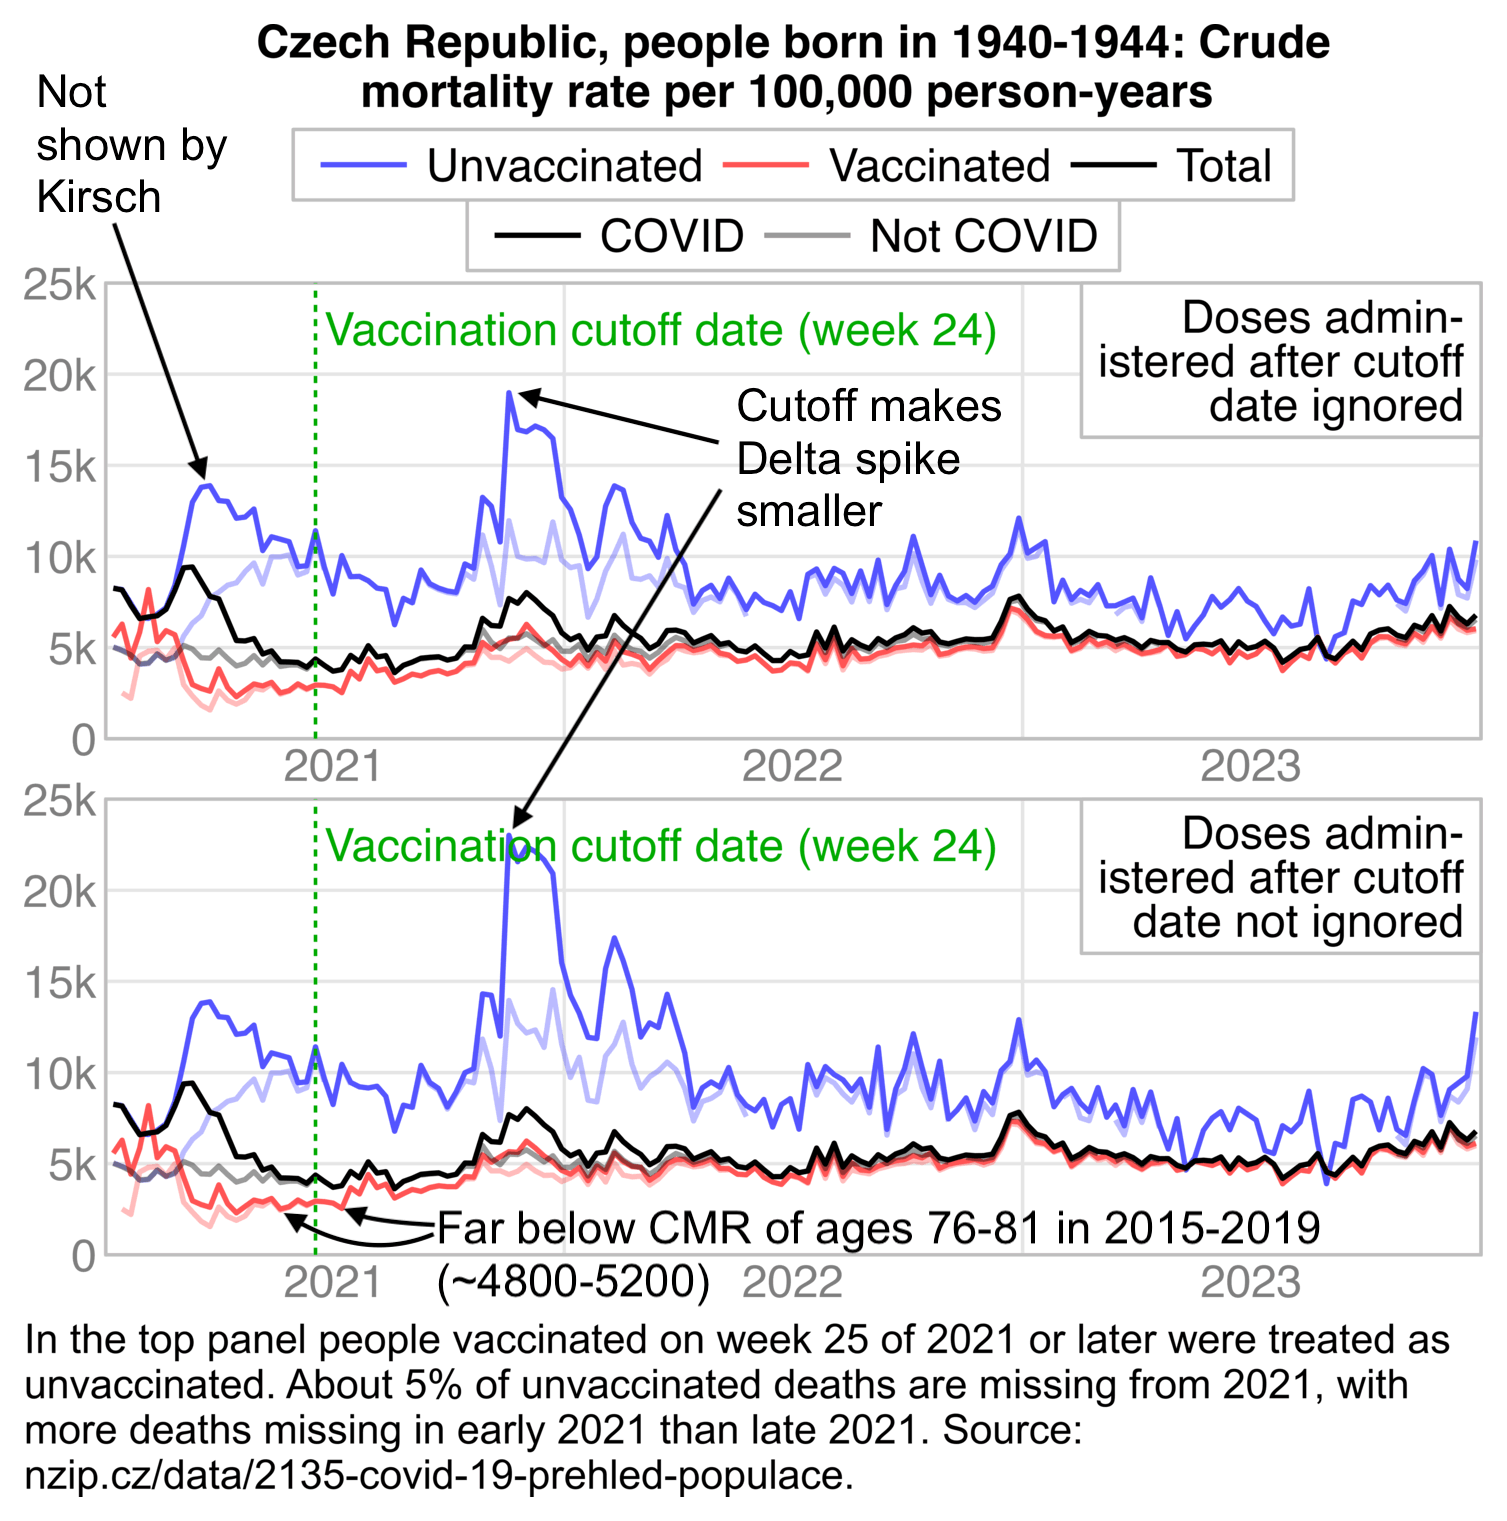
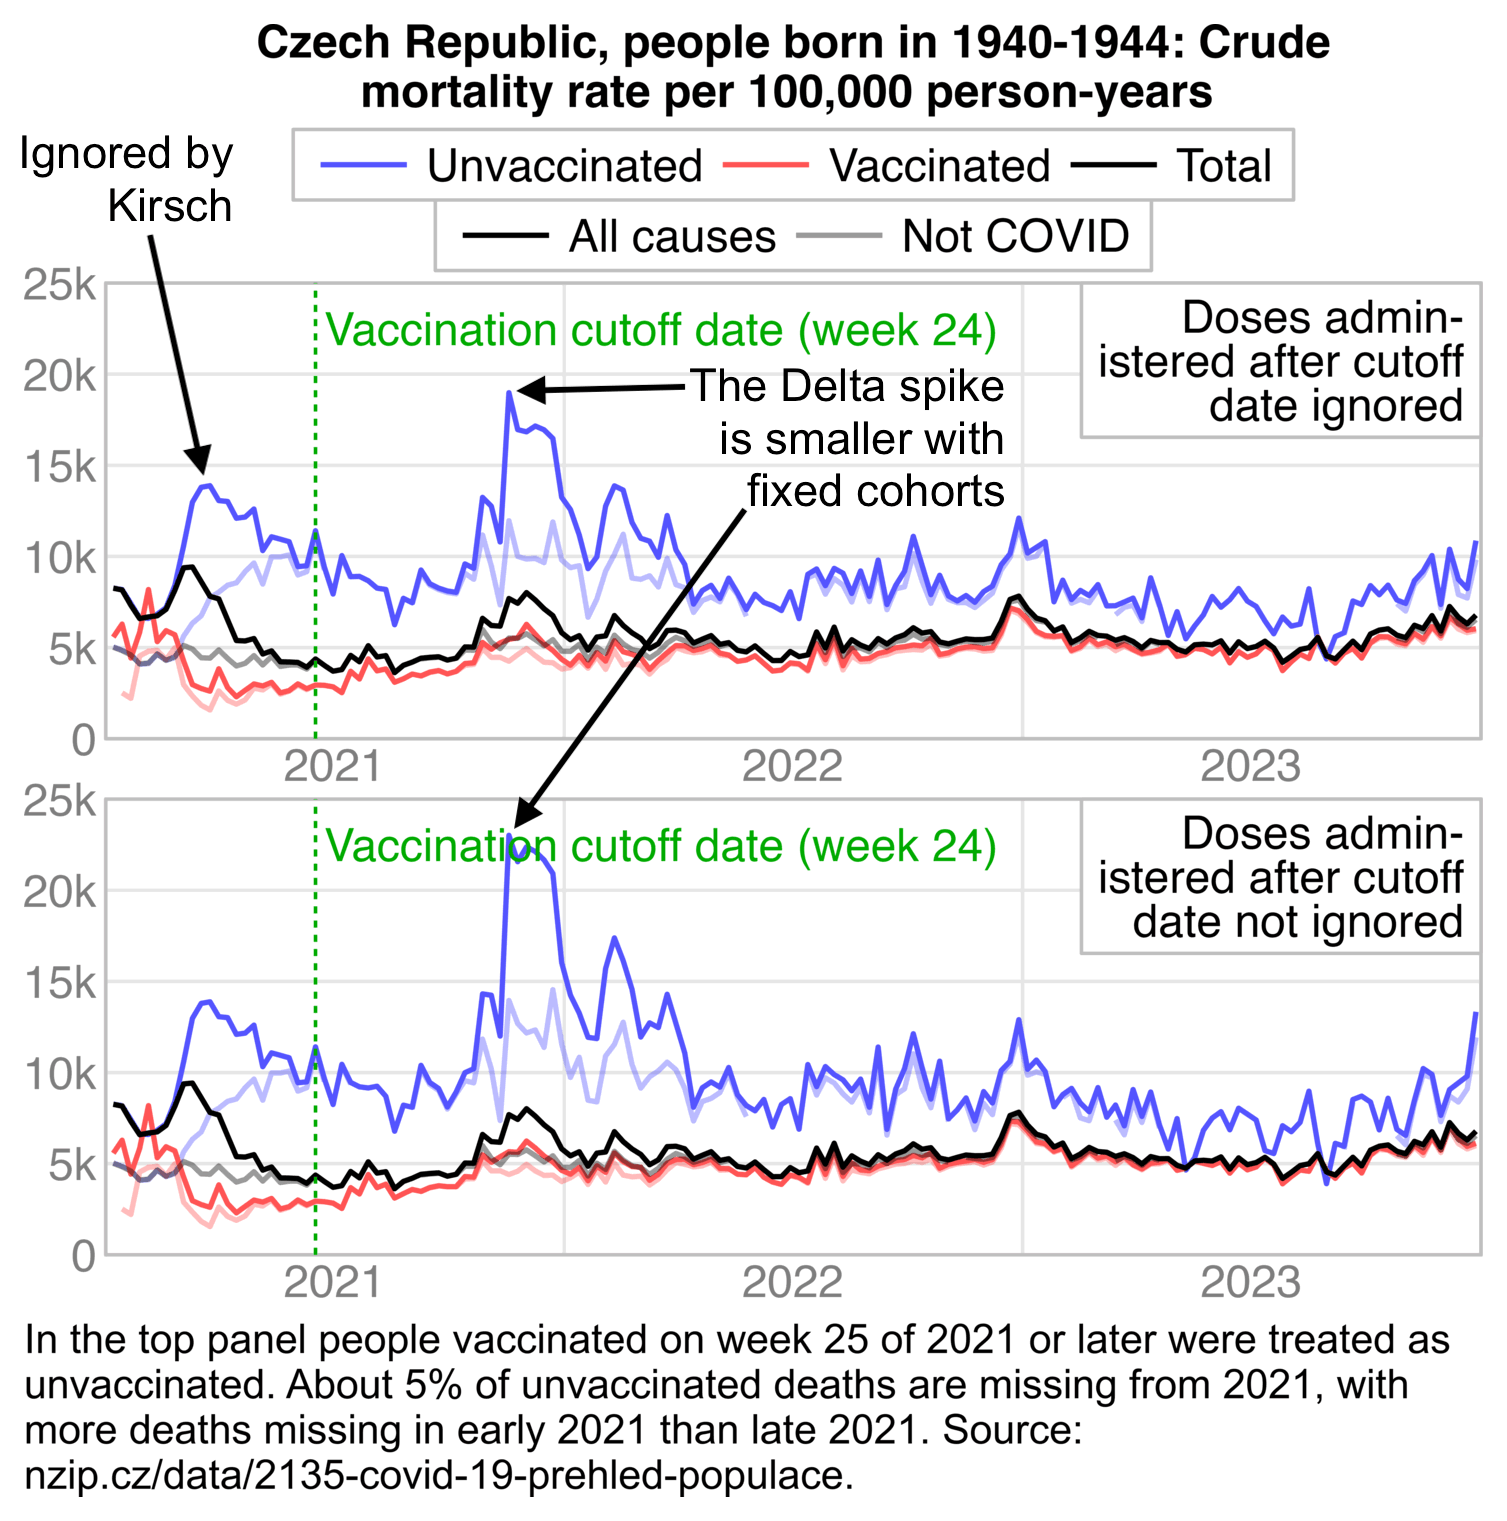
a

diff --git a/rootclaim5.html b/rootclaim5.html
@@ -2654,7 +2654,7 @@ ggsave(&quot;1.png&quot;,width=4.9,height=2.6,dpi=300*4)</pre>
 </div>
 <p>When he said the unvaccinated CMR remained flat, he was talking about the CMR at the start of his x-axis before the Delta wave.</p>
 <p>The Czech Republic had a high percentage of unvaccinated people compared to other countries like England or Japan, so unvaccinated people didn't have a very large spike in mortality during the rollout of the primary course doses.</p>
-<p>But that doesn't mean that the increase in vaccinated mortality in 2021 wouldn't have been due to the HVE. The vaccinated CMR in 2021 was about 3000 in mid-2021. People born in 1940-1944 were 76 to 81 years old in 2021, but the Czech CMR for ages 76-81 was about 4800-5200 per 100,000 in 2015-2019:</p>
+<p>But that doesn't mean that the increase in vaccinated mortality in 2021 wouldn't have been due to the HVE. The vaccinated CMR was about 3,000 per 100,000 in mid-2021. People born in 1940-1944 were 76 to 81 years old in 2021, but the Czech CMR for ages 76-81 was about 5,000 per 100,000 in 2015-2019:</p>
 <pre>t=fread(&quot;https://sars2.net/f/czpopdead.csv&quot;)
 t[age%in%76:81&amp;year%in%2015:2022,.(cmr=sum(dead)/sum(pop)*1e5),year]
 # year      cmr
@@ -2702,7 +2702,7 @@ a=rbind(a,a[,.(dead=sum(dead),pop=sum(pop,na.rm=T),coviddead=sum(coviddead),dose
 iso=`class&lt;-`(0:1e4*7,&quot;Date&quot;);names(iso)=format(iso,&quot;%G-%V&quot;)
 p=a[,.(y=(sum(dead)-c(0,sum(coviddead)))/sum(pop)/7*365e5,z=1:2),.(dose,x=iso[week],facet)]
 p[,dose:=factor(dose,,c(&quot;Unvaccinated&quot;,&quot;Vaccinated&quot;,&quot;Total&quot;))]
-p[,z:=factor(z,,c(&quot;COVID&quot;,&quot;Not COVID&quot;))]
+p[,z:=factor(z,,c(&quot;All causes&quot;,&quot;Not COVID&quot;))]
 p[,facet:=factor(facet,,paste(&quot;Doses admin-\nistered after cutoff\ndate&quot;,c(&quot;ignored&quot;,&quot;not ignored&quot;)))]
 
 xstart=as.Date(&quot;2021-1-1&quot;);xend=as.Date(&quot;2024-1-1&quot;);xbreak=seq(xstart+182,xend,&quot;year&quot;)
